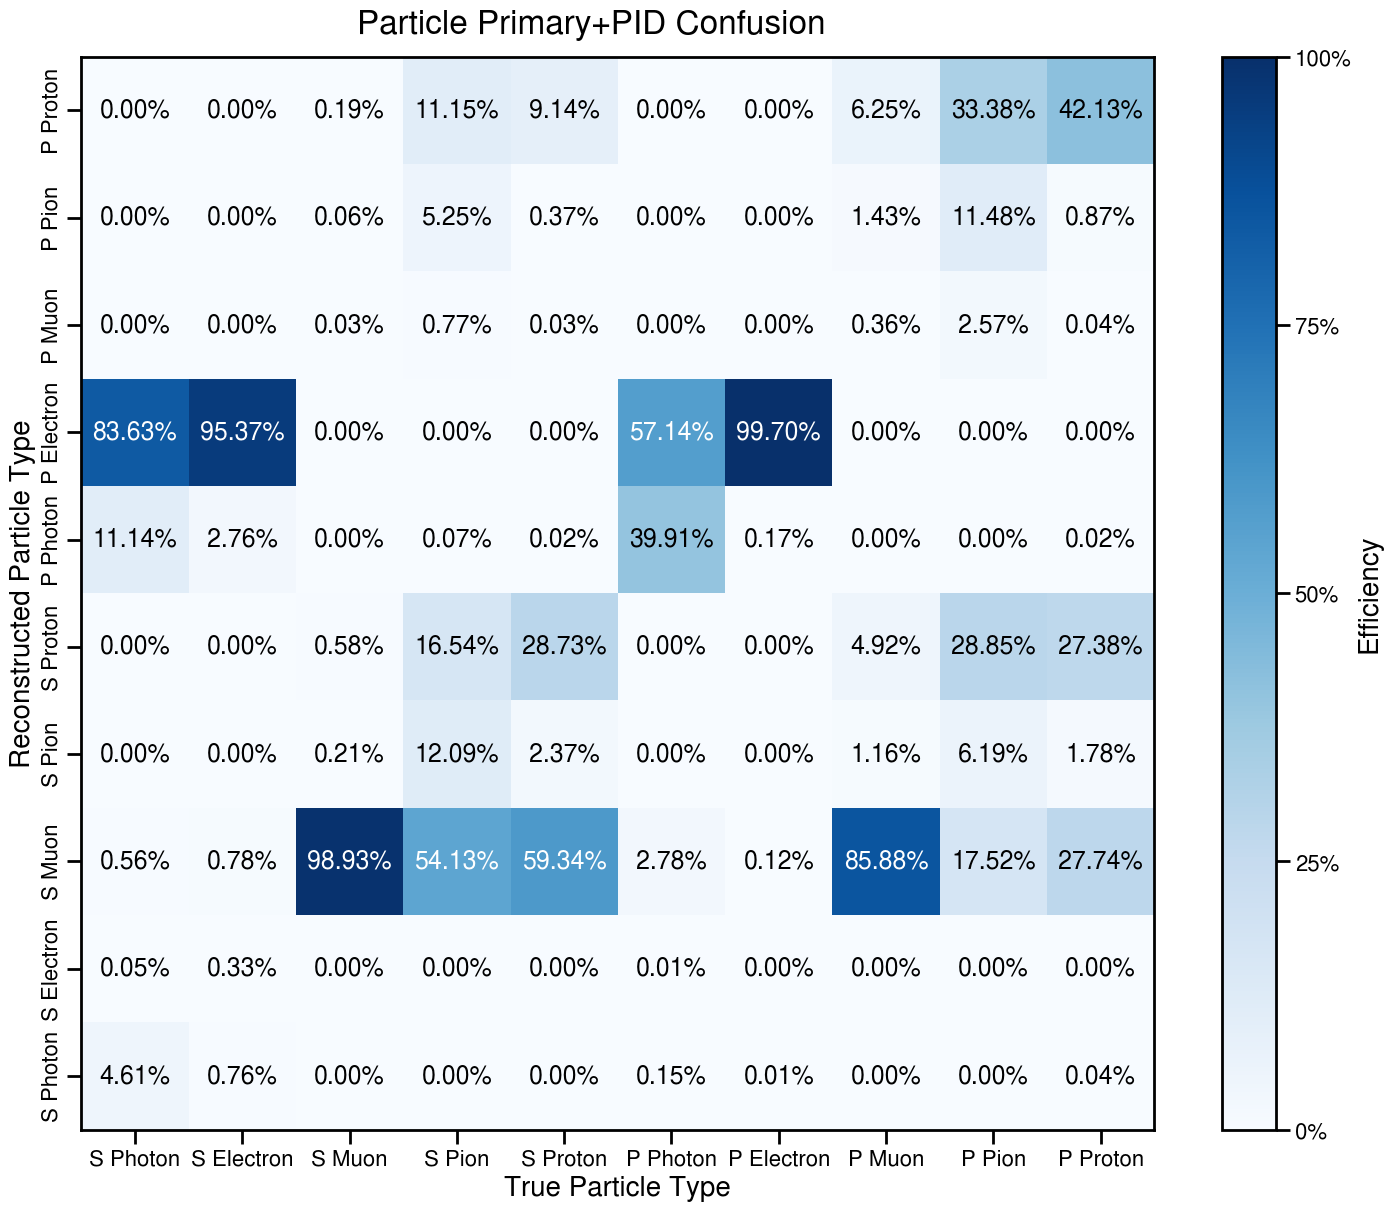
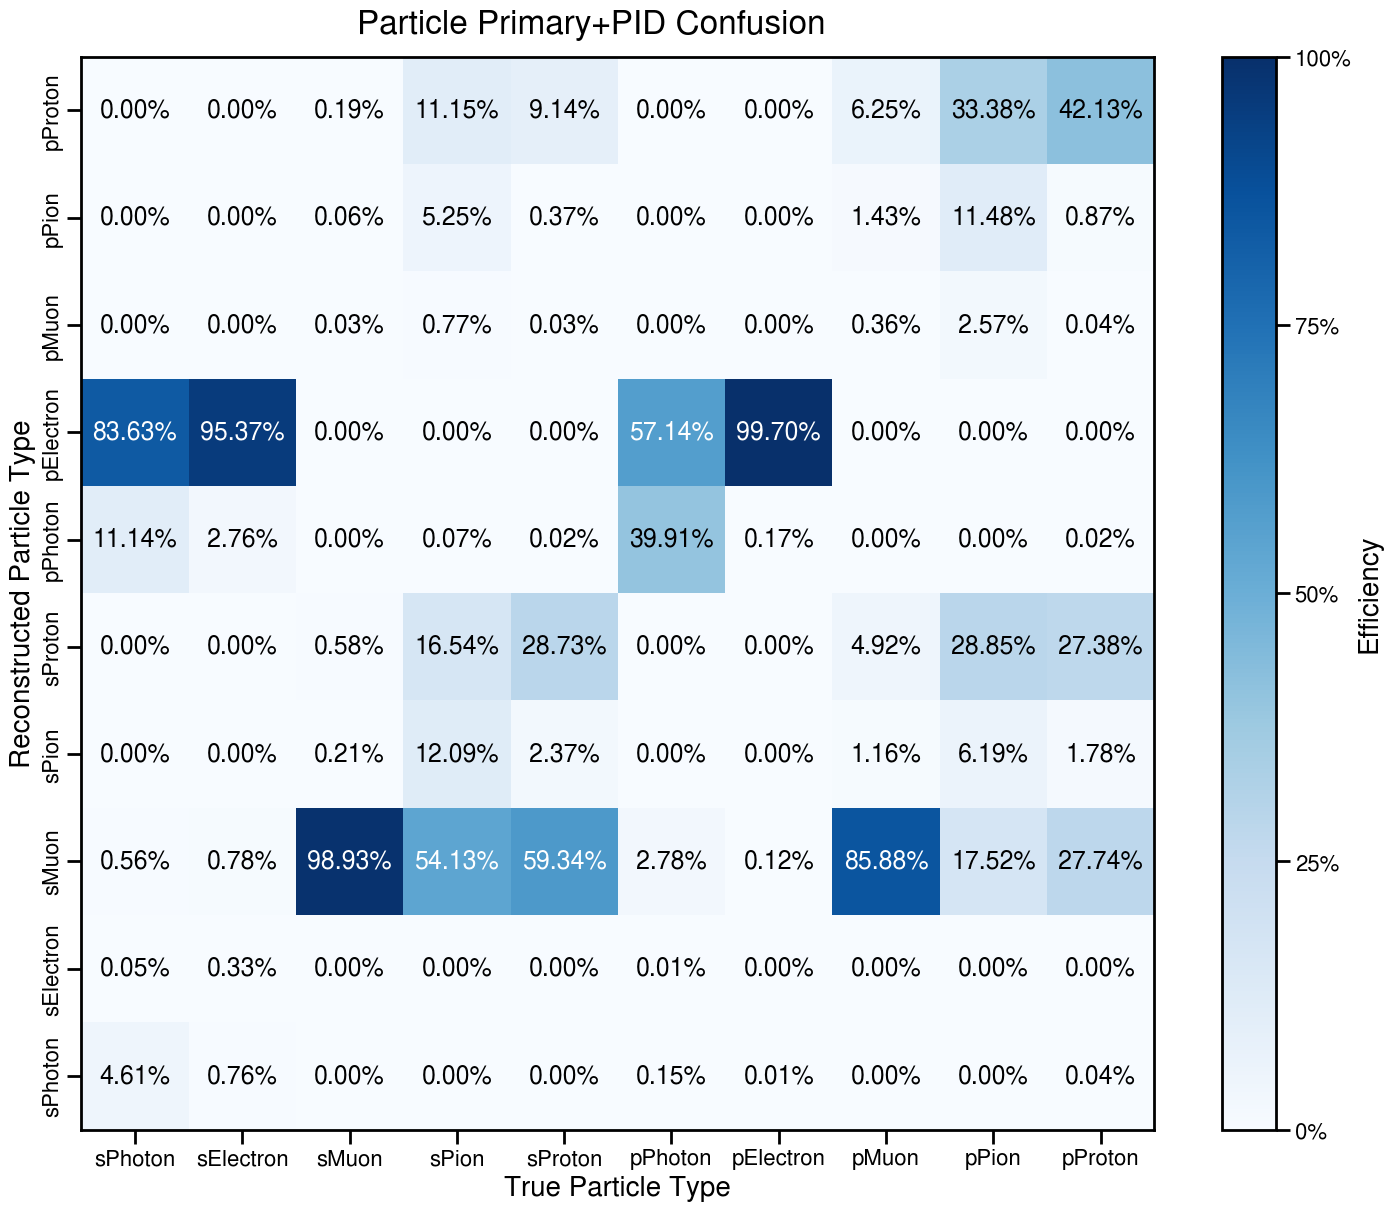
Updated confusion matrix formatting

diff --git a/plotting/make_plots.py b/plotting/make_plots.py
@@ -45,7 +45,7 @@ def main():
       ylabel: Reconstructed Particle Type
       clabel: Efficiency
       title: Particle Primary+PID Confusion
-      entries: [S Photon,S Electron,S Muon,S Pion,S Proton,P Photon,P Electron,P Muon,P Pion,P Proton]
+      entries: [sPhoton,sElectron,sMuon,sPion,sProton,pPhoton,pElectron,pMuon,pPion,pProton]
       save: plots/primary_pid_confusion.png
     - type: confusion
       name: primary_neutrino
@@ -72,7 +72,7 @@ def main():
       ylabel: Reconstructed Particle Type
       clabel: Efficiency
       title: Particle Primary+PID Confusion (Neutrinos)
-      entries: [nPhoton, nElectron, nMuon, nPion, nProton, pPhoton, pElectron, pMuon, pPion, pProton]
+      entries: [nPhoton,nElectron,nMuon,nPion,nProton,pPhoton,pElectron,pMuon,pPion,pProton]
       save: plots/primary_pid_neutrino_confusion.png
     - type: confusion
       name: primary_cosmic
@@ -99,7 +99,7 @@ def main():
       ylabel: Reconstructed Particle Type
       clabel: Efficiency
       title: Particle Primary+PID Confusion (Cosmics)
-      entries: [Non-primary\nPhoton, Non-primary\nElectron,Non-primary\nMuon,Non-primary\nPion,Non-primary\nProton,Primary\nPhoton,Primary\nElectron,Primary\nMuon,Primary\nPion,Primary\nProton]
+      entries: [nPhoton,nElectron,nMuon,nPion,nProton,pPhoton,pElectron,pMuon,pPion,pProton]
       save: plots/primary_pid_cosmic_confusion.png
     - type: flow
       direction: ttp
